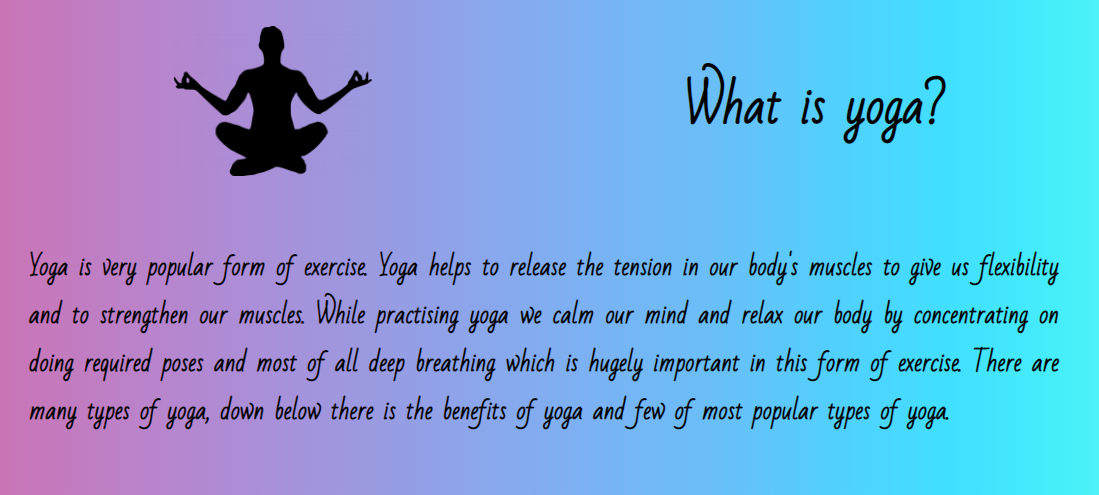
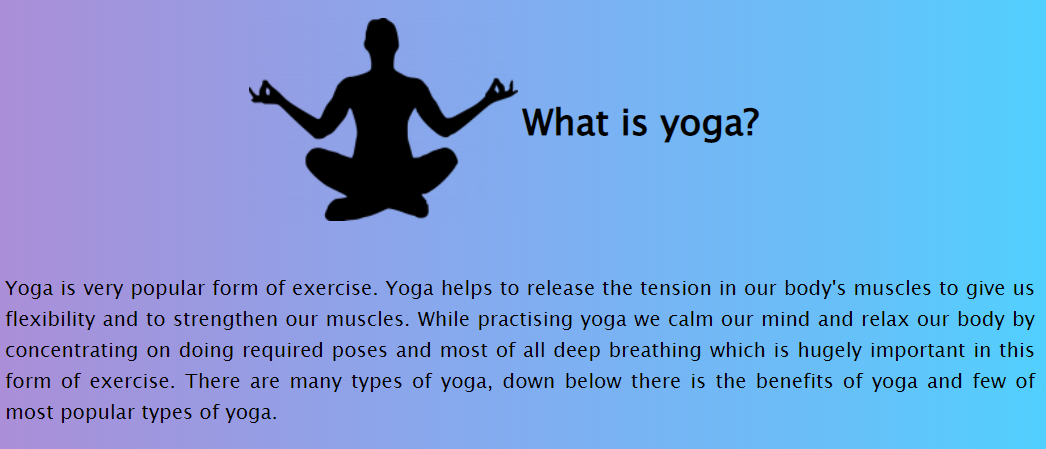
updated: pictures in readme file

diff --git a/README.md b/README.md
@@ -19,12 +19,6 @@ Bright colors have been chosen to best describe what is yoga and what it stands 
 
 ![Colors](assets/readme/site-colors.png)
 
-- __fonts__
-
-
-For best appearance of the website, handwriting fonts choose from google fonts to add a sense of feeling to empower persons and give courage to try new things.
-
-
 - __Page Logo__
 
 Shape It logo simply describing itself as to shape your mind and body. To grab readers attention to Shape It beside it I have an eye catching animated silhouette of yoga freestyle to make it more interesting.
@@ -77,7 +71,8 @@ I confirmed that contact form works: requires entries in every field and submit 
 
 # Bugs
 
-having an issue with pictures height and with.
+having an issue with pictures height and with.  Fixed
+problems with navigation sizing between different screen sizes. fixed
 
 # Validator testing
 
@@ -90,7 +85,8 @@ I confirm that the colors and fonts chosen are easy to read and accessible by ru
 
 Desktop version:
 
-![desktop](assets/readme/lighthouse.png)
+![desktop](assets/readme/desktop.png)
 
 Mobile version:
 
+![mobile](assets/readme/mobile.png)
